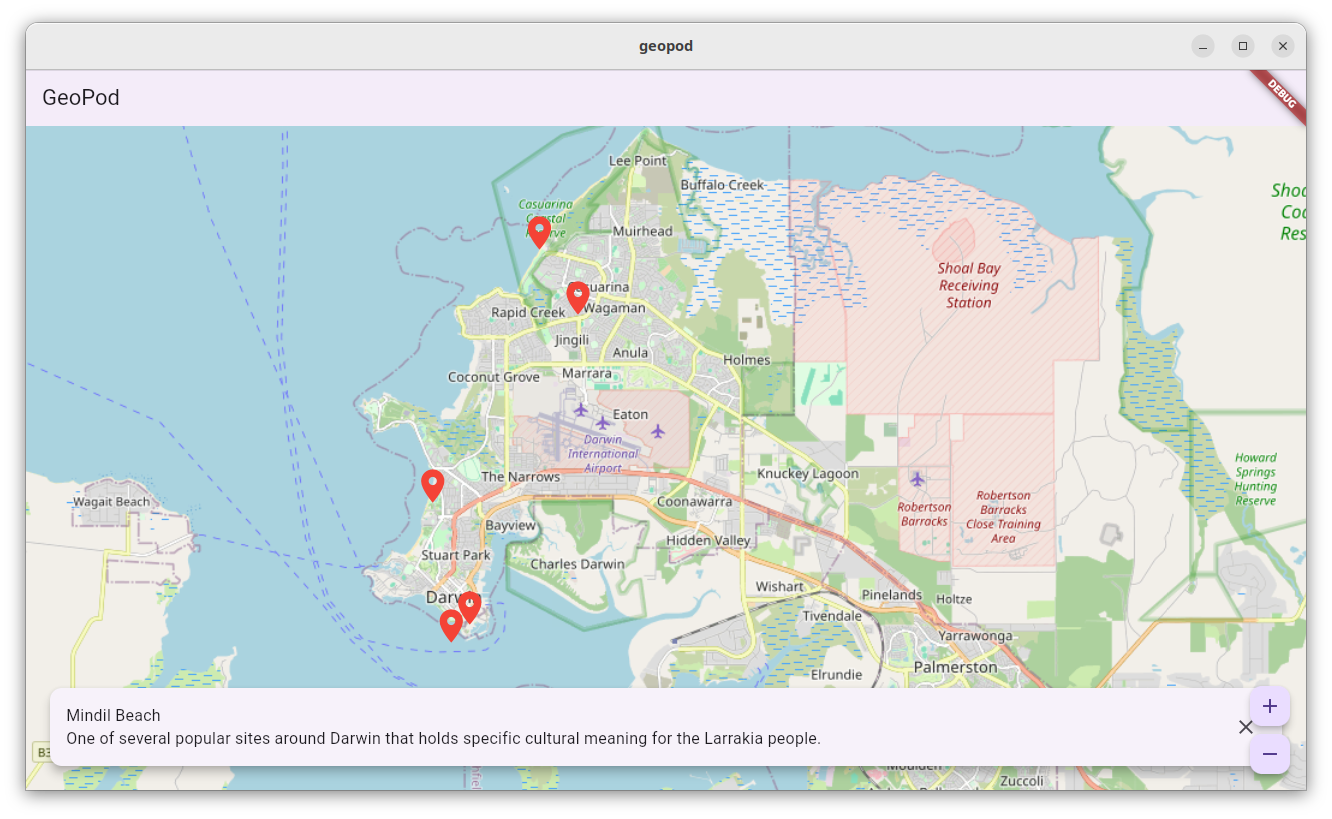
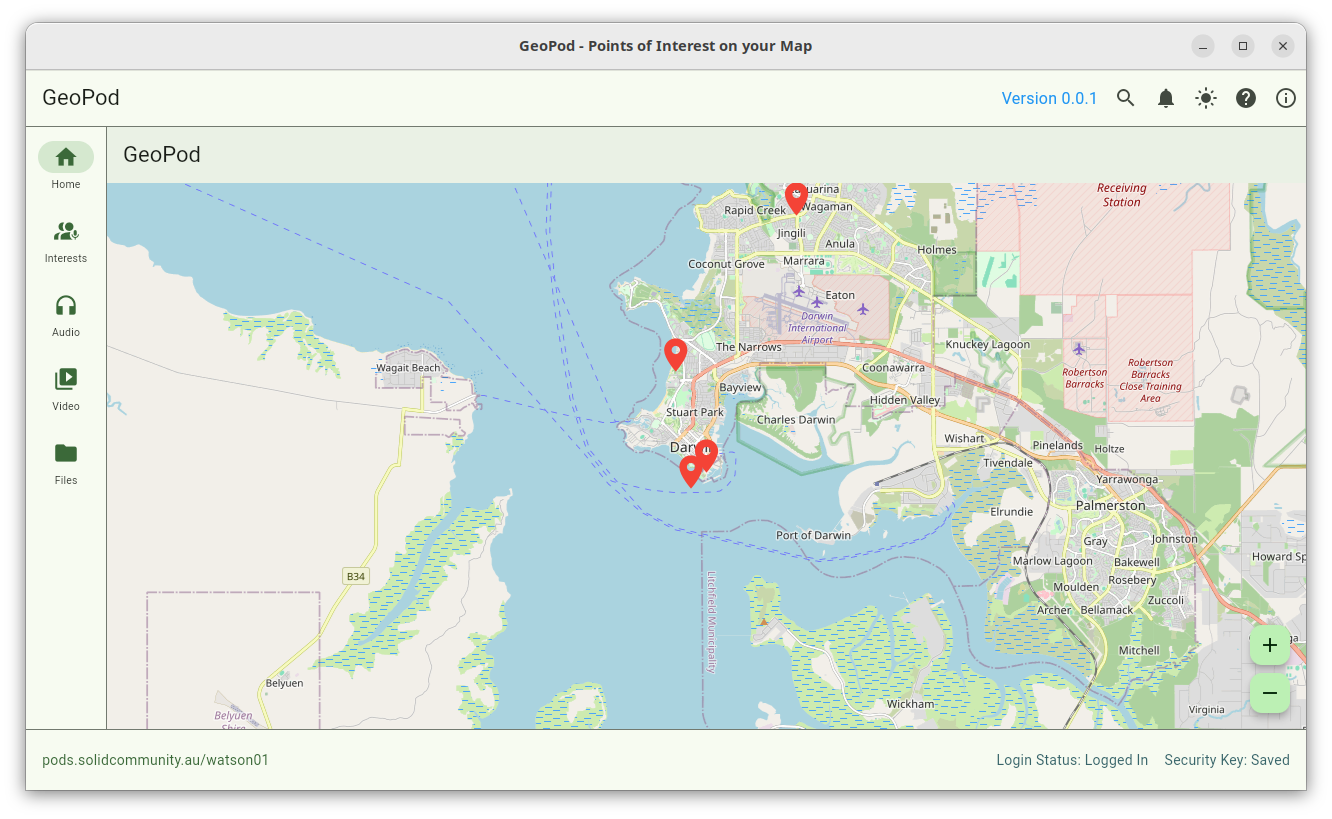
Updated docs.

diff --git a/README.md b/README.md
@@ -6,10 +6,13 @@ private, encrypted Solid Pods by the custodian of the
 knowledge. Within the map interface when a point of interest is tapped
 the data/text associated with that point is displayed.
 
-Currently as of 20251118 it is a simple map interface. Pods to
-come. Once Pods are incorproated the initial screen will log you into
-your Pod and retrieve points of interest that you have access to.
+Currently as of 20251121 the app utilises the
+[solidui](https://pub.dev/solidui) package to log into a solid server
+and to provide the scaffolding for the app. Once logged in you are
+presented with a simple map interface. Once Pods are incorporated the
+app will retrieve points of interest that you have access to through
+your Pod.
+
+![Map Screen Darwin](assets/screenshots/app_login.png)
 
 ![Map Screen Darwin](assets/screenshots/map_screen_darwin.png)
-
-![Map Screen Canberra](assets/screenshots/map_screen_canberra.png)